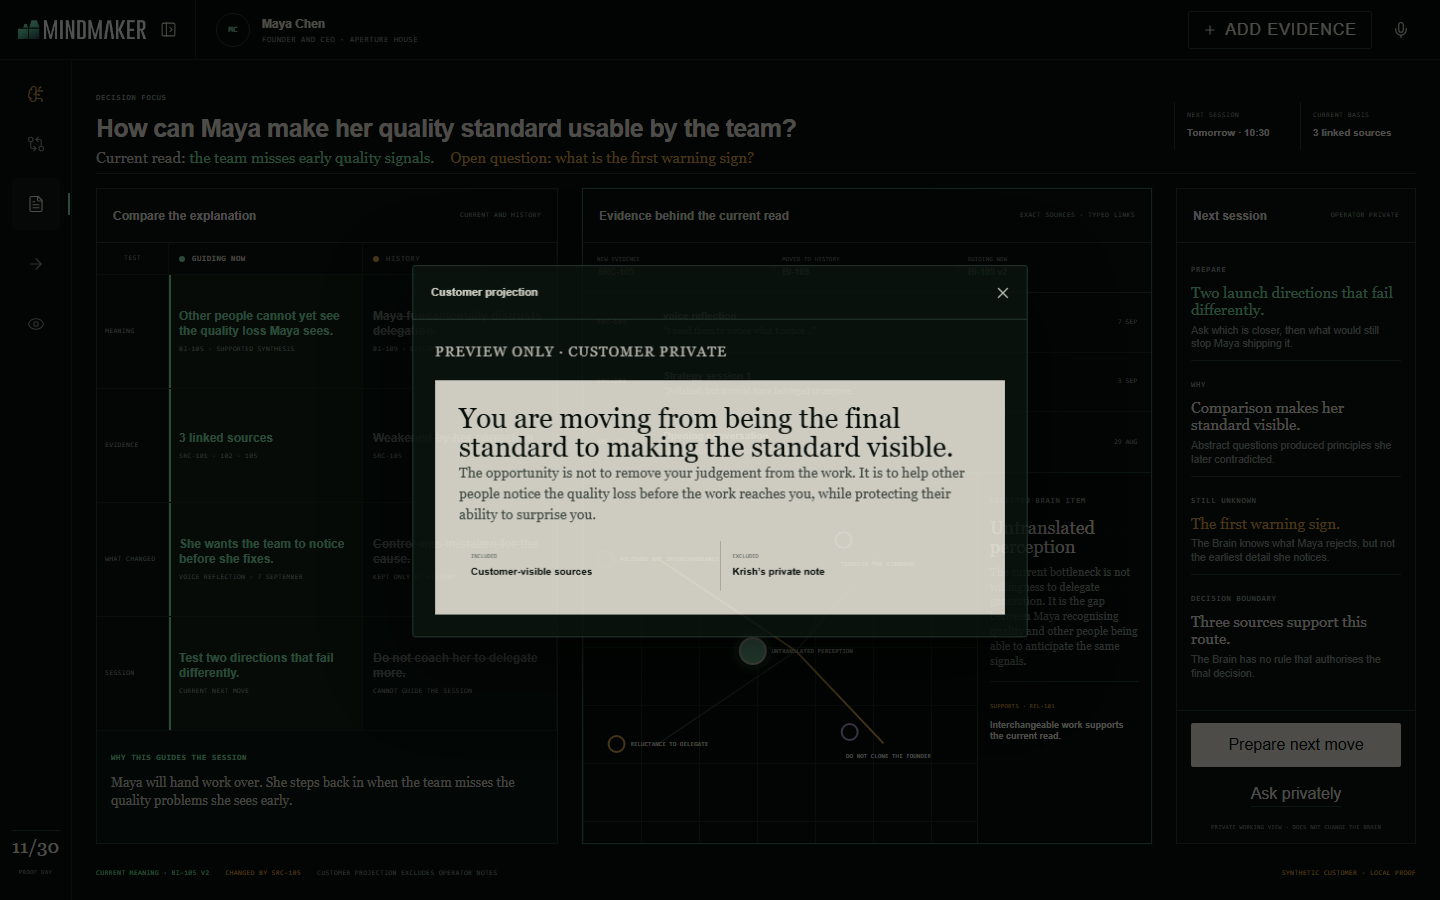
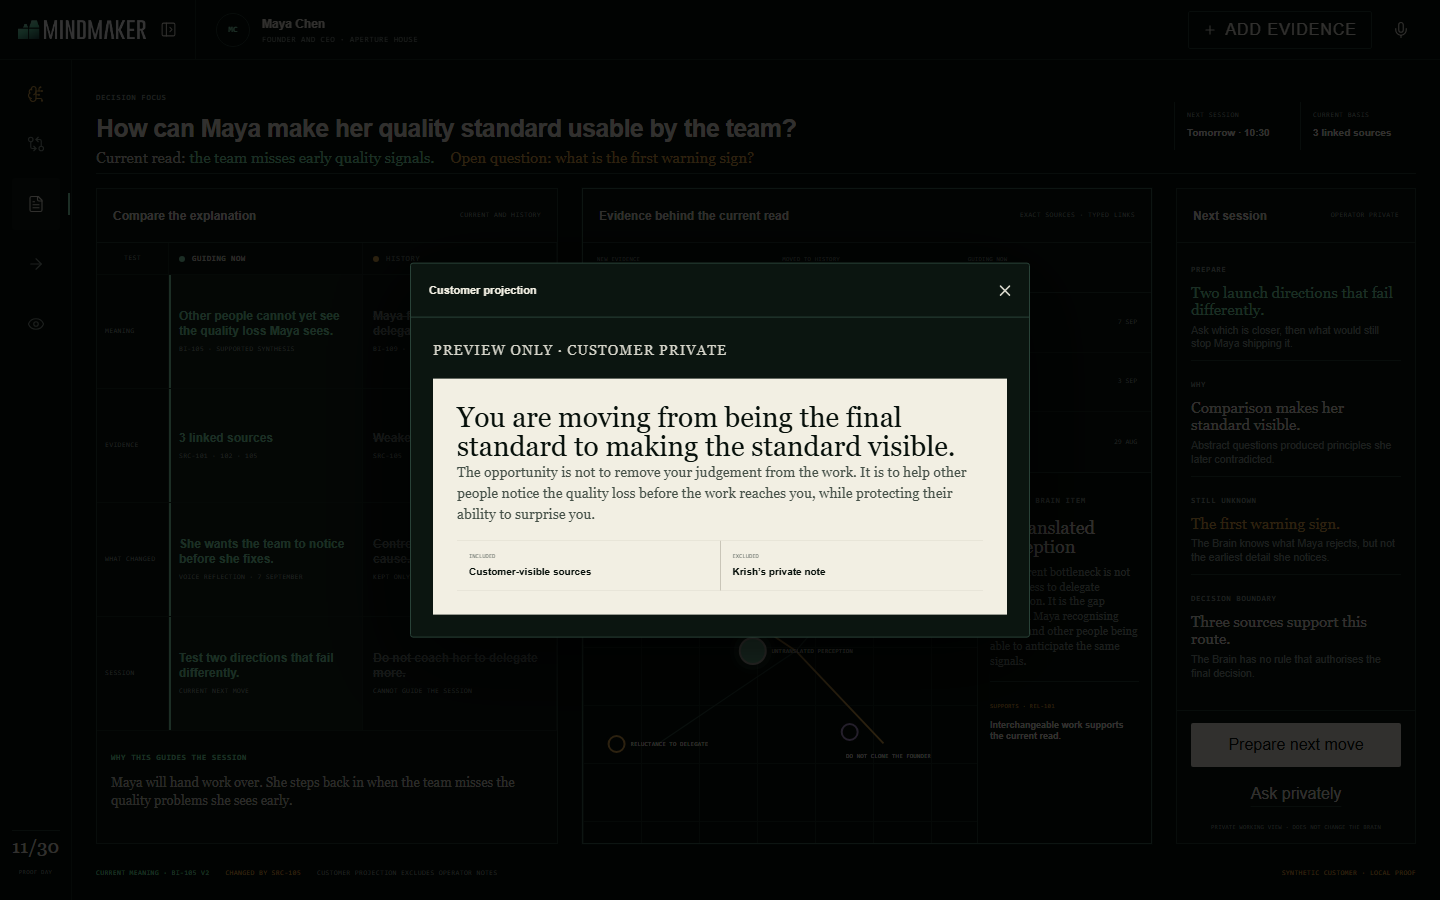
docs: record verified remote Decision Bench preview

diff --git a/project-documentation/ctrl-evolution/README.md b/project-documentation/ctrl-evolution/README.md
@@ -16,7 +16,7 @@ This is the canonical, resumable state for the CTRL product evolution. It preven
 
 **STATE_ROUTE:** `project-documentation/ctrl-evolution/README.md`
 
-**CURRENT_PHASE:** G13 is closed at the Customer Brain material visual gate. `D-055` locks the Living Map hybrid and the founder's cold reaction on 7 September 2026, "this is awesome!", approves R2 as the governing customer-facing Brain expression. G14 founder calibration establishes the near-term operating model: Krish is the primary operator during each Mindmake thirty-day proof, one customer's Brain is the governed object, and the customer participates through deliberately lightweight moments rather than administering the system. G14 Private Brain Builder R1 and R2 are both rejected direction evidence. R2 failed because it still spent wide-screen space on large editorial declarations instead of decision support. A fresh blinded reset produced three materially different interaction spines. The two primary judges split between the Decision Bench and Decision Watershed. A third blinded tiebreak selected the Decision Bench. The new-spine Decision Bench R1 is founder-approved from the cold reaction on 8 September 2026, "looks good". It is now the governing G14 private operator direction: a no-scroll desktop instrument with simultaneous comparison, exact evidence, a focused Living Brain route, uncertainty and session preparation. Its fixture-backed React slice is implemented and locally verified. The R2 remediation fixes the opaque customer projection, restores the Mindmaker wordmark, makes the rail understandable and functional, and collapses the two-stage loading perception into one visual experience. It reads only the locked synthetic fixture, is absent from navigation and makes no database write. The founder has authorised a non-production HTTPS preview for cross-device review; production remains untouched. The next gate is the founder's reaction to that corrected route before authenticated integration or any persistence work. G15 established a provisional longitudinal construct, `Judgement Resolution`, and tested a customer expression called `Brain Resolution`. R1 failed for excessive words and insufficient visual meaning. R2 made the change legible, but its founder gate exposed a more important structural failure: as a standalone sequence it risks feeling like e-learning about small workflow moments when CTRL exists to help with consequential million-dollar decisions. The useful old-view, correction and current-view mechanism is retained only as a subordinate change trace. No G15 R3 standalone receipt will be produced. The provisional metric remains an internal hypothesis rather than a customer-facing claim. The identity fork remains resolved for the build: Mindy is scrapped; CTRL is provisional; final naming returns at pre-launch GTM. Production schema changes, real test-account creation, GitHub App or customer-repository creation, authenticated integration and release remain separately gated.
+**CURRENT_PHASE:** G13 is closed at the Customer Brain material visual gate. `D-055` locks the Living Map hybrid and the founder's cold reaction on 7 September 2026, "this is awesome!", approves R2 as the governing customer-facing Brain expression. G14 founder calibration establishes the near-term operating model: Krish is the primary operator during each Mindmake thirty-day proof, one customer's Brain is the governed object, and the customer participates through deliberately lightweight moments rather than administering the system. G14 Private Brain Builder R1 and R2 are both rejected direction evidence. R2 failed because it still spent wide-screen space on large editorial declarations instead of decision support. A fresh blinded reset produced three materially different interaction spines. The two primary judges split between the Decision Bench and Decision Watershed. A third blinded tiebreak selected the Decision Bench. The new-spine Decision Bench R1 is founder-approved from the cold reaction on 8 September 2026, "looks good". It is now the governing G14 private operator direction: a no-scroll desktop instrument with simultaneous comparison, exact evidence, a focused Living Brain route, uncertainty and session preparation. Its fixture-backed React slice is implemented and verified locally and on a non-production Vercel preview. The R2 remediation fixes the opaque customer projection, restores the Mindmaker wordmark, makes the rail understandable and functional, and collapses the two-stage loading perception into one visual experience. It reads only the locked synthetic fixture, is absent from navigation and makes no database write. A preview-scoped cross-device share link is active through 8 October 2026; production remains untouched. The next gate is the founder's reaction to that corrected route before authenticated integration or any persistence work. G15 established a provisional longitudinal construct, `Judgement Resolution`, and tested a customer expression called `Brain Resolution`. R1 failed for excessive words and insufficient visual meaning. R2 made the change legible, but its founder gate exposed a more important structural failure: as a standalone sequence it risks feeling like e-learning about small workflow moments when CTRL exists to help with consequential million-dollar decisions. The useful old-view, correction and current-view mechanism is retained only as a subordinate change trace. No G15 R3 standalone receipt will be produced. The provisional metric remains an internal hypothesis rather than a customer-facing claim. The identity fork remains resolved for the build: Mindy is scrapped; CTRL is provisional; final naming returns at pre-launch GTM. Production schema changes, real test-account creation, GitHub App or customer-repository creation, authenticated integration and release remain separately gated.
 
 **CANONICAL_LEDGER_SYNC:** `STORE_UNAVAILABLE` for writes. The verified Supabase target still reports `M-013` v1 `in_progress` and no `M-014`. The official connector accepted readback but refused the append because its current transaction is read-only. No partial write occurred. Git commit `03830d6d18c91ad2a495f50cdfe2e61b872ac734` preserves the reviewed R2 artifact. When write access is restored, append `M-013` v2 `complete`; append `M-014` v1 `complete` with the founder's R1 correction and R2 approval; and open `M-015` v1 `in_progress` with the G14 founder calibration and Private Brain Builder material gate. Proposed `D-056` makes the personal becoming portrait and transparent, inspectable Living Brain the governing customer-facing My Brain experience. Proposed `D-057` makes Krish's private per-customer Brain Builder the primary near-term operating surface during the Mindmake thirty-day proof, while the customer participates through low-friction moments and receives governed Brain expressions. Both remain proposed-only until authoritative write and readback succeed. The finalized naming decision is preserved locally as proposed canonical record `DEC-20260907-defer-product-naming`: Mindy is excluded, CTRL remains provisional, and naming reopens at pre-launch GTM. It also remains proposed-only until the configured decision-ledger adapter can append and read it back. Do not use or recover access from any credential exposed in conversation.
 
@@ -92,7 +92,7 @@ The first grounded exemplar is an hour-long synchronous meeting to brainstorm on
 
 A higher-order marketing exemplar uses aggregate audience-exposure intelligence to understand which fan theories, characters and narrative threads people have encountered and help a franchise decide what to emphasise or sequence next. The supplied Marvel Short illustrates the strategic pattern but is not independently verified as an official Disney asset or as evidence of campaign effectiveness. The pattern must preserve provenance, uncertainty, creative surprise and human franchise judgement.
 
-**NEXT_ACTION:** Publish the corrected synthetic Decision Bench to a non-production HTTPS preview, verify it from a clean browser and present its direct link for founder review. Record the exact reaction before changing the direction. Stop before schema, account, customer data, authenticated integration, production deployment or release work.
+**NEXT_ACTION:** Present the clean-browser-verified HTTPS Decision Bench preview for founder review. Record the exact reaction before changing the direction. Stop before schema, account, customer data, authenticated integration, production deployment or release work.
 
 ## Current strategic synthesis through G12
 
@@ -186,7 +186,7 @@ Four refinements are now explicit. Continuous early-sight processing does not re
 | Complete founder product interview | In progress |
 | Produce decision-complete product corpus and architecture | In progress: G13 Living Brain R2 and G14 Decision Bench R1 are founder-approved; G15 Brain Resolution is retained only as a subordinate mechanism after its standalone surface failed the founder gate |
 | Diverge, render and approve first material surface | Complete: R3 direction approved with implementation corrections |
-| Implement and independently verify vertical slice | Corrected synthetic Decision Bench React slice implemented and locally verified; remote founder review pending before authenticated integration |
+| Implement and independently verify vertical slice | Corrected synthetic Decision Bench React slice implemented and verified locally and remotely; founder review pending before authenticated integration |
 
 ## Locked product decisions
 

diff --git a/project-documentation/ctrl-evolution/design/g14-decision-bench-react-r2-remediation.md b/project-documentation/ctrl-evolution/design/g14-decision-bench-react-r2-remediation.md
@@ -2,7 +2,7 @@
 
 Date: 8 September 2026
 
-Status: implemented and locally verified; remote preview pending
+Status: implemented and verified locally and on the remote preview
 
 ## Founder review
 
@@ -56,4 +56,16 @@ Evidence:
 
 ## Deployment boundary
 
-The authorised target is a non-production Vercel preview of the synthetic fixture. Production, authenticated integration, real customer data, persistence and public release remain untouched and separately gated. The preview URL and immutable deployment readback will be appended after deployment.
+The authorised target is a non-production Vercel preview of the synthetic fixture. Production, authenticated integration, real customer data, persistence and public release remain untouched and separately gated.
+
+Deployment readback:
+
+- Vercel project: `mm-ctrl`
+- environment: `preview`
+- deployment ID: `dpl_9ywamPrcur1VZZoJPm2x9XjNit47`
+- immutable deployment URL: `https://mm-ctrl-hh1i6mkno-krish-rajas-projects.vercel.app`
+- source commit: `5409e4ea769953ff8f6906f615e9d83f33bef473`
+- ready state: `READY`
+- production target: untouched
+
+The project keeps standard deployment protection. A preview-scoped shareable link was created for cross-device founder review and expires on 8 October 2026. Its access parameter is intentionally not persisted in Git. The remote route passed the same desktop, mobile, interaction, privacy-boundary, state-range and wrong-identity acceptance suite as the local build.
